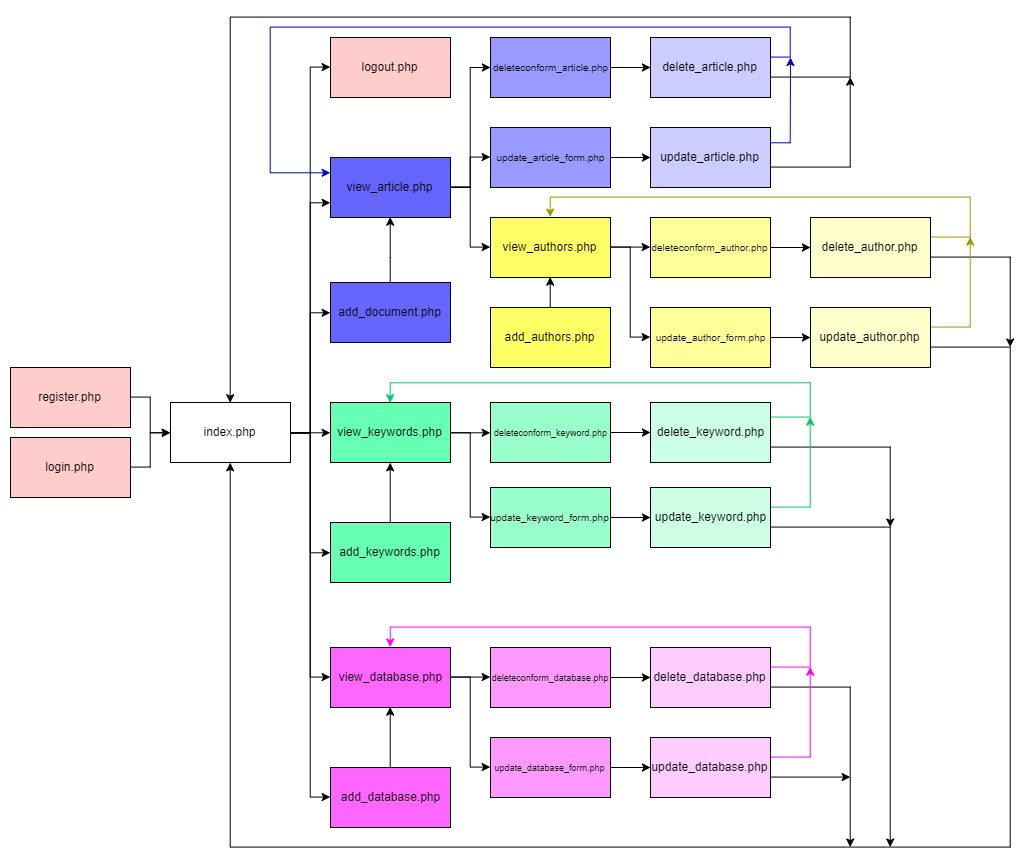
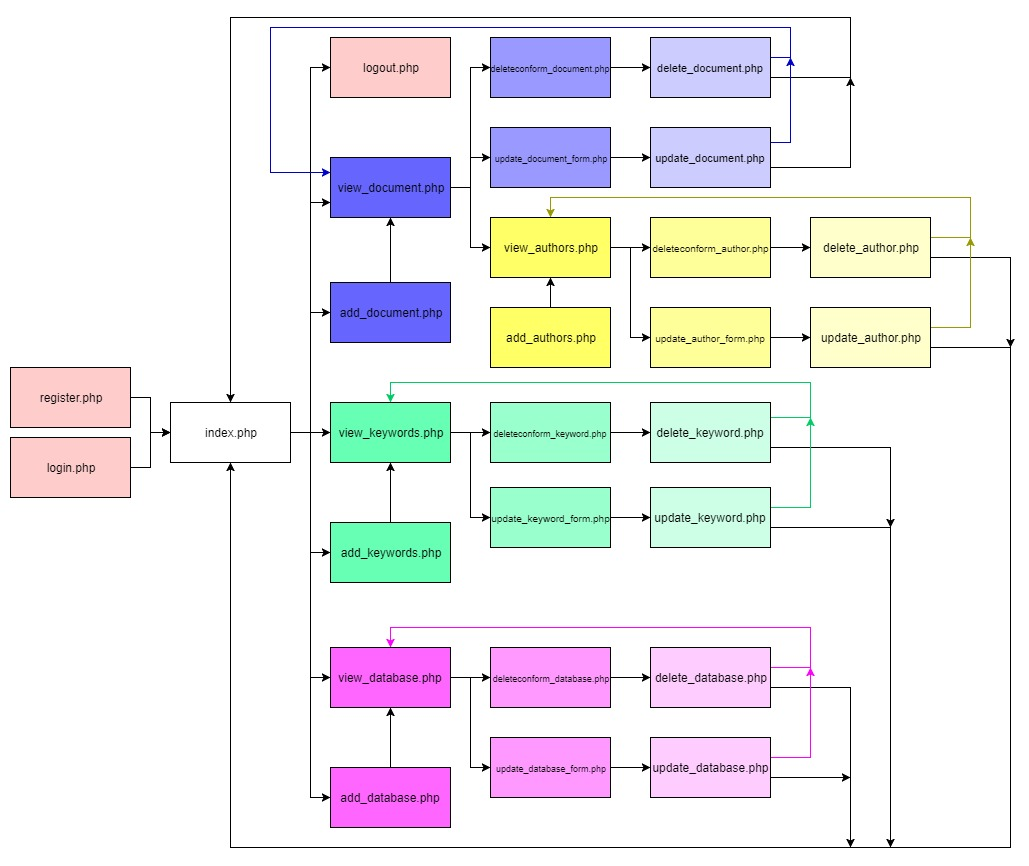
updated web design to have correct names

diff --git a/capstone/update_keyword_form.php b/capstone/update_keyword_form.php
@@ -1,5 +1,7 @@
 <?php
 require_once ('includes/check_session.inc.php'); // check session
+
+# Title of page
 $page_title = 'Update a Keyword';
 include ('includes/header.inc.html');
 
